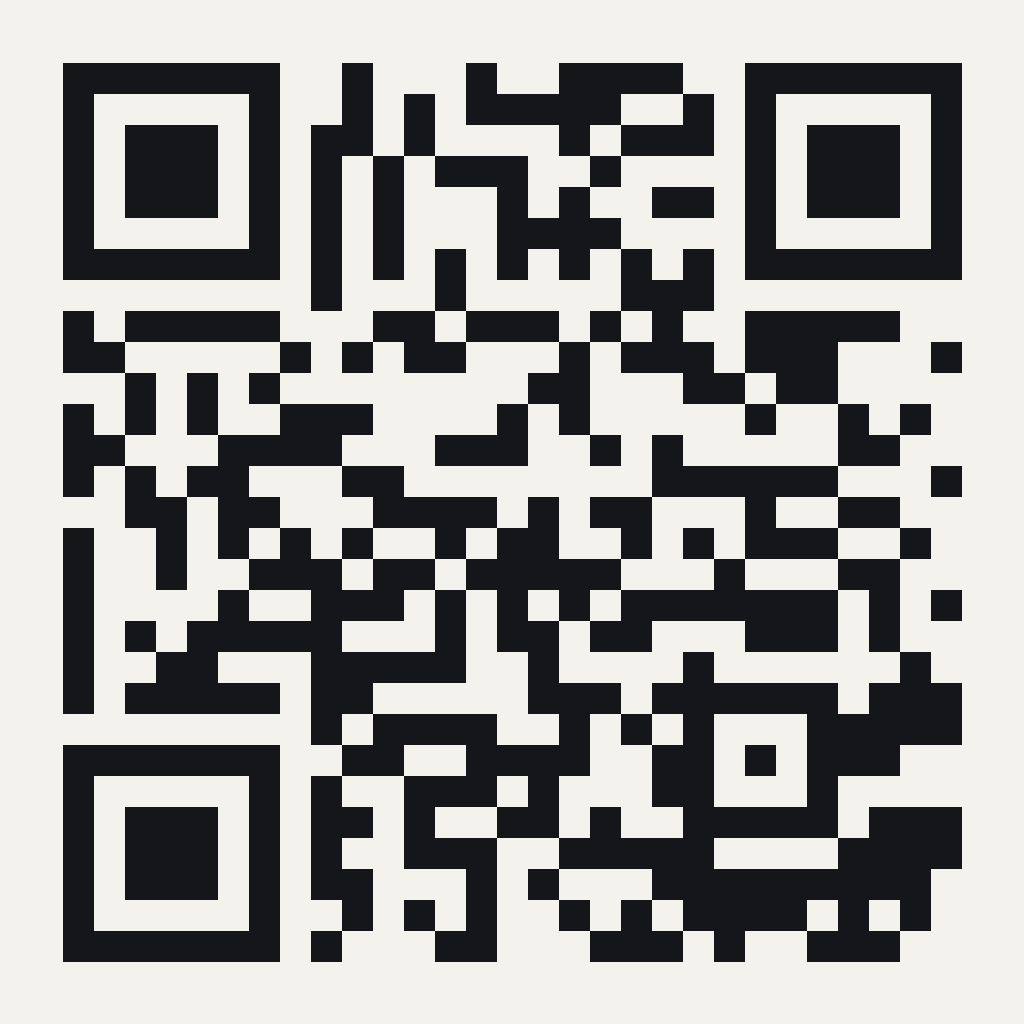
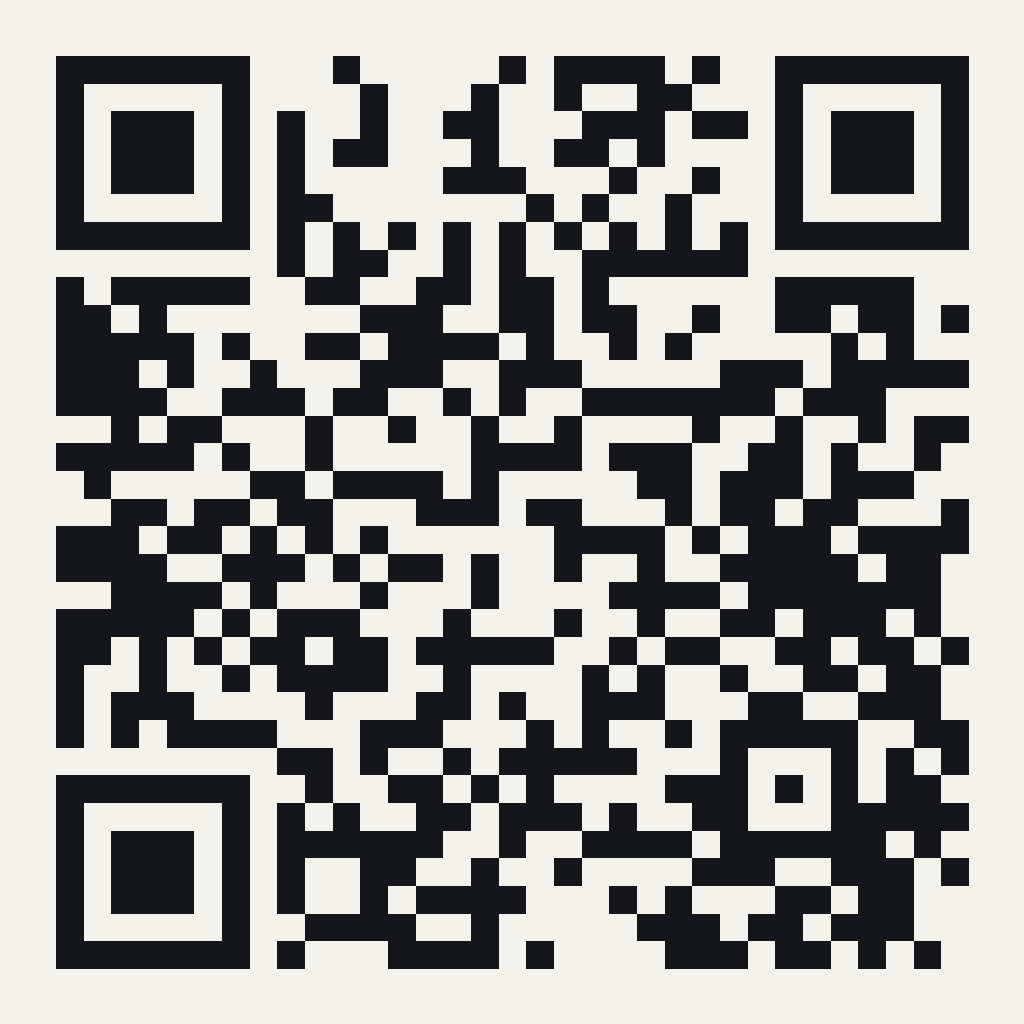
Point site, QR codes and client doc at the Cloudflare Pages domain

diff --git a/src/components/contact/QRGenerator.tsx b/src/components/contact/QRGenerator.tsx
@@ -37,7 +37,7 @@ function slug(s: string) {
  * so it follows the site when it moves to a custom domain.
  */
 export function QRGenerator() {
-  const [origin, setOrigin] = useState('https://sifiso-holding.vercel.app');
+  const [origin, setOrigin] = useState('https://sifiso-holdings-enh.pages.dev');
   const [key, setKey] = useState('home');
   const [custom, setCustom] = useState('');
   const [png, setPng] = useState('');

diff --git a/src/app/layout.tsx b/src/app/layout.tsx
@@ -20,7 +20,7 @@ const body = Inter({
 });
 
 export const metadata: Metadata = {
-  metadataBase: new URL(process.env.SITE_URL ?? 'https://sifiso-holding.vercel.app'),
+  metadataBase: new URL(process.env.SITE_URL ?? 'https://sifiso-holdings-enh.pages.dev'),
   title: {
     default: 'Sifiso Holdings — The Operating System for Africa’s Built Environment',
     template: '%s — Sifiso Holdings',

diff --git a/docs/client-overview.md b/docs/client-overview.md
@@ -1,6 +1,6 @@
 # Sifiso Holdings — website demo
 
-**Live demo:** https://sifiso-holding.vercel.app
+**Live demo:** https://sifiso-holdings-enh.pages.dev
 
 ## What this is
 
@@ -10,14 +10,14 @@ A working demonstration of a new website for Sifiso Holdings. It presents the bu
 
 | Page | What to look at |
 |---|---|
-| [Home](https://sifiso-holding.vercel.app/) | The first impression: a 3D city model that follows your mouse, the four services, live figures and a MERIDIAN™ preview. |
-| [MERIDIAN™](https://sifiso-holding.vercel.app/meridian) | The flagship product page. Click the four modules and watch the dashboards change. |
-| [Services](https://sifiso-holding.vercel.app/services) | The four service areas, one after another, with lines that draw as you scroll. |
-| [About](https://sifiso-holding.vercel.app/about) | Story, values, timeline and leadership. |
-| [Sectors](https://sifiso-holding.vercel.app/sectors) | Who the firm serves, and a track-record table. |
-| [Insights](https://sifiso-holding.vercel.app/insights) | Articles. Open one to see the article layout. |
-| [Team](https://sifiso-holding.vercel.app/team) | The people. Open a name to see the profile page. |
-| [Contact](https://sifiso-holding.vercel.app/contact) | A working enquiry form (it emails you), an office map, and a QR code maker you can use yourself. |
+| [Home](https://sifiso-holdings-enh.pages.dev/) | The first impression: a 3D city model that follows your mouse, the four services, live figures and a MERIDIAN™ preview. |
+| [MERIDIAN™](https://sifiso-holdings-enh.pages.dev/meridian) | The flagship product page. Click the four modules and watch the dashboards change. |
+| [Services](https://sifiso-holdings-enh.pages.dev/services) | The four service areas, one after another, with lines that draw as you scroll. |
+| [About](https://sifiso-holdings-enh.pages.dev/about) | Story, values, timeline and leadership. |
+| [Sectors](https://sifiso-holdings-enh.pages.dev/sectors) | Who the firm serves, and a track-record table. |
+| [Insights](https://sifiso-holdings-enh.pages.dev/insights) | Articles. Open one to see the article layout. |
+| [Team](https://sifiso-holdings-enh.pages.dev/team) | The people. Open a name to see the profile page. |
+| [Contact](https://sifiso-holdings-enh.pages.dev/contact) | A working enquiry form (it emails you), an office map, and a QR code maker you can use yourself. |
 
 Tip: the **Index** button, top right on every page, opens the full site map.
 
